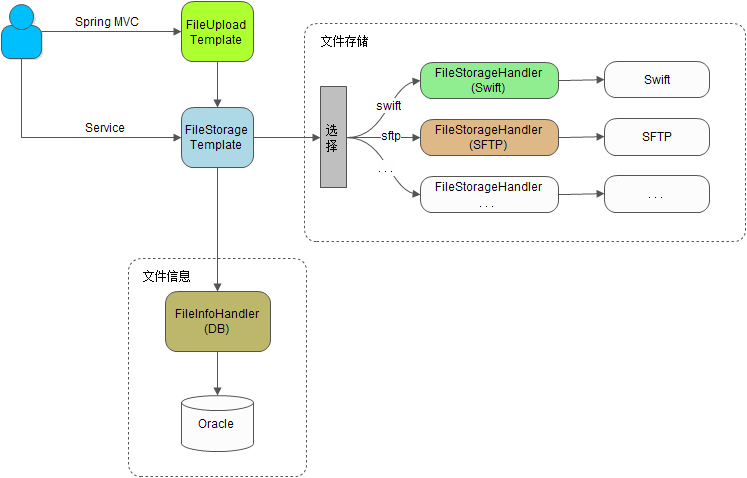
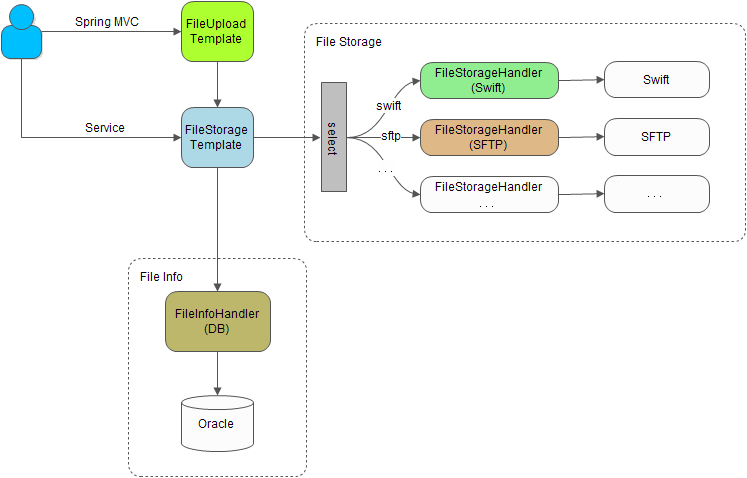
update

diff --git a/README.md b/README.md
@@ -1,0 +1,104 @@
+## File Storage
+- The tools of file storage
+- Supports Spring Boot
+- Generate union identify for file
+- Customized FileInfoHandler
+- Customized FileStorageHandler
+
+### Main Frame
+![file-storage-main](file-storage-main.png)
+
+### Read And Write
+![file-storage-rw](file-storage-rw.png)
+
+
+> Setup FileInfoHandler:
+> - To save file information, we need to setup a custom FileInfoHandler.
+
+### Example
+```yaml
+  fs:
+    file-storage:
+      default-type: swift-c2
+      types:
+        swift:
+          path: http://1.2.3.4:8080/v1/dev_xxx/file
+        swift-temp:
+          path: http://1.2.3.4:8080/v1/dev_xxx/tmp
+        swift-c2:
+          path: http://1.2.3.4:8080/v1/dev_xxx/file
+        swift-c2-temp:
+          path: http://1.2.3.4:8080/v1/dev_xxx/tmp
+        fast-dfs:
+          type: fdfs
+          path: group1
+        sftp-cdn:
+          type: sftp
+          path: 1.2.3.5:22/home/appuser/test
+          username: abc
+          password: xxx
+        sftp-cdn2:
+          type: sftp
+          path: 1.2.3.6:22/home/appuser/test
+          username: abc
+          password: xxx
+        sftp-cdn-group:
+          type: group
+          path: sftp-cdn,sftp-cdn2
+```
+
+```java
+    @Autowired
+    private FileStorageTemplate fileStorageTemplate;
+
+    // save
+    FileInfo fileInfo = new FileInfo();
+    //fileInfo.setStorageType("fast-dfs");
+    fileInfo.setFileCode("test1");
+    fileInfo = fileStorageTemplate.storageFile(new File("/test.png"), fileInfo);
+    System.out.println(fileInfo.getId() + ": " + fileInfo.getFilePath());
+    
+    // get file info
+    String fileId = "43e58f9a42b34e0fbed4ccc259418a72";
+    FileInfo fileInfo = fileStorageTemplate.getFileInfo(fileId);
+    
+    // get file
+    String fileId = "43e58f9a42b34e0fbed4ccc259418a72";
+    try (OutputStream out = new FileOutputStream("/temp/test.png")) {
+        fileStorageTemplate.getFile(fileId, out);
+    }
+    
+    // delete
+    String fileId = "43e58f9a42b34e0fbed4ccc259418a72";
+    fileStorageTemplate.deleteFile(fileId);
+```
+
+## File Upload
+- File upload tools for Spring MVC
+- Supports Spring Boot
+- Customized type configuration
+
+### Example
+```yaml
+  fs:
+    upload:
+      types:
+        default:
+          max-size: 50m
+        test1:
+          #storage-kind: 1
+          #storageType: fast-dfs
+          max-size: 10m
+          suffix: xls,xlsx
+```
+
+```java
+    @Autowired
+    private FileUploadTemplate fileUploadTemplate;
+
+    // get upload config
+    FileUploadConfig config = fileUploadTemplate.getUploadConfig("test1");
+
+    // upload
+    FileUploadResult result = fileUploadTemplate.uploadFile("user1", "test1", multipartFile);
+```
